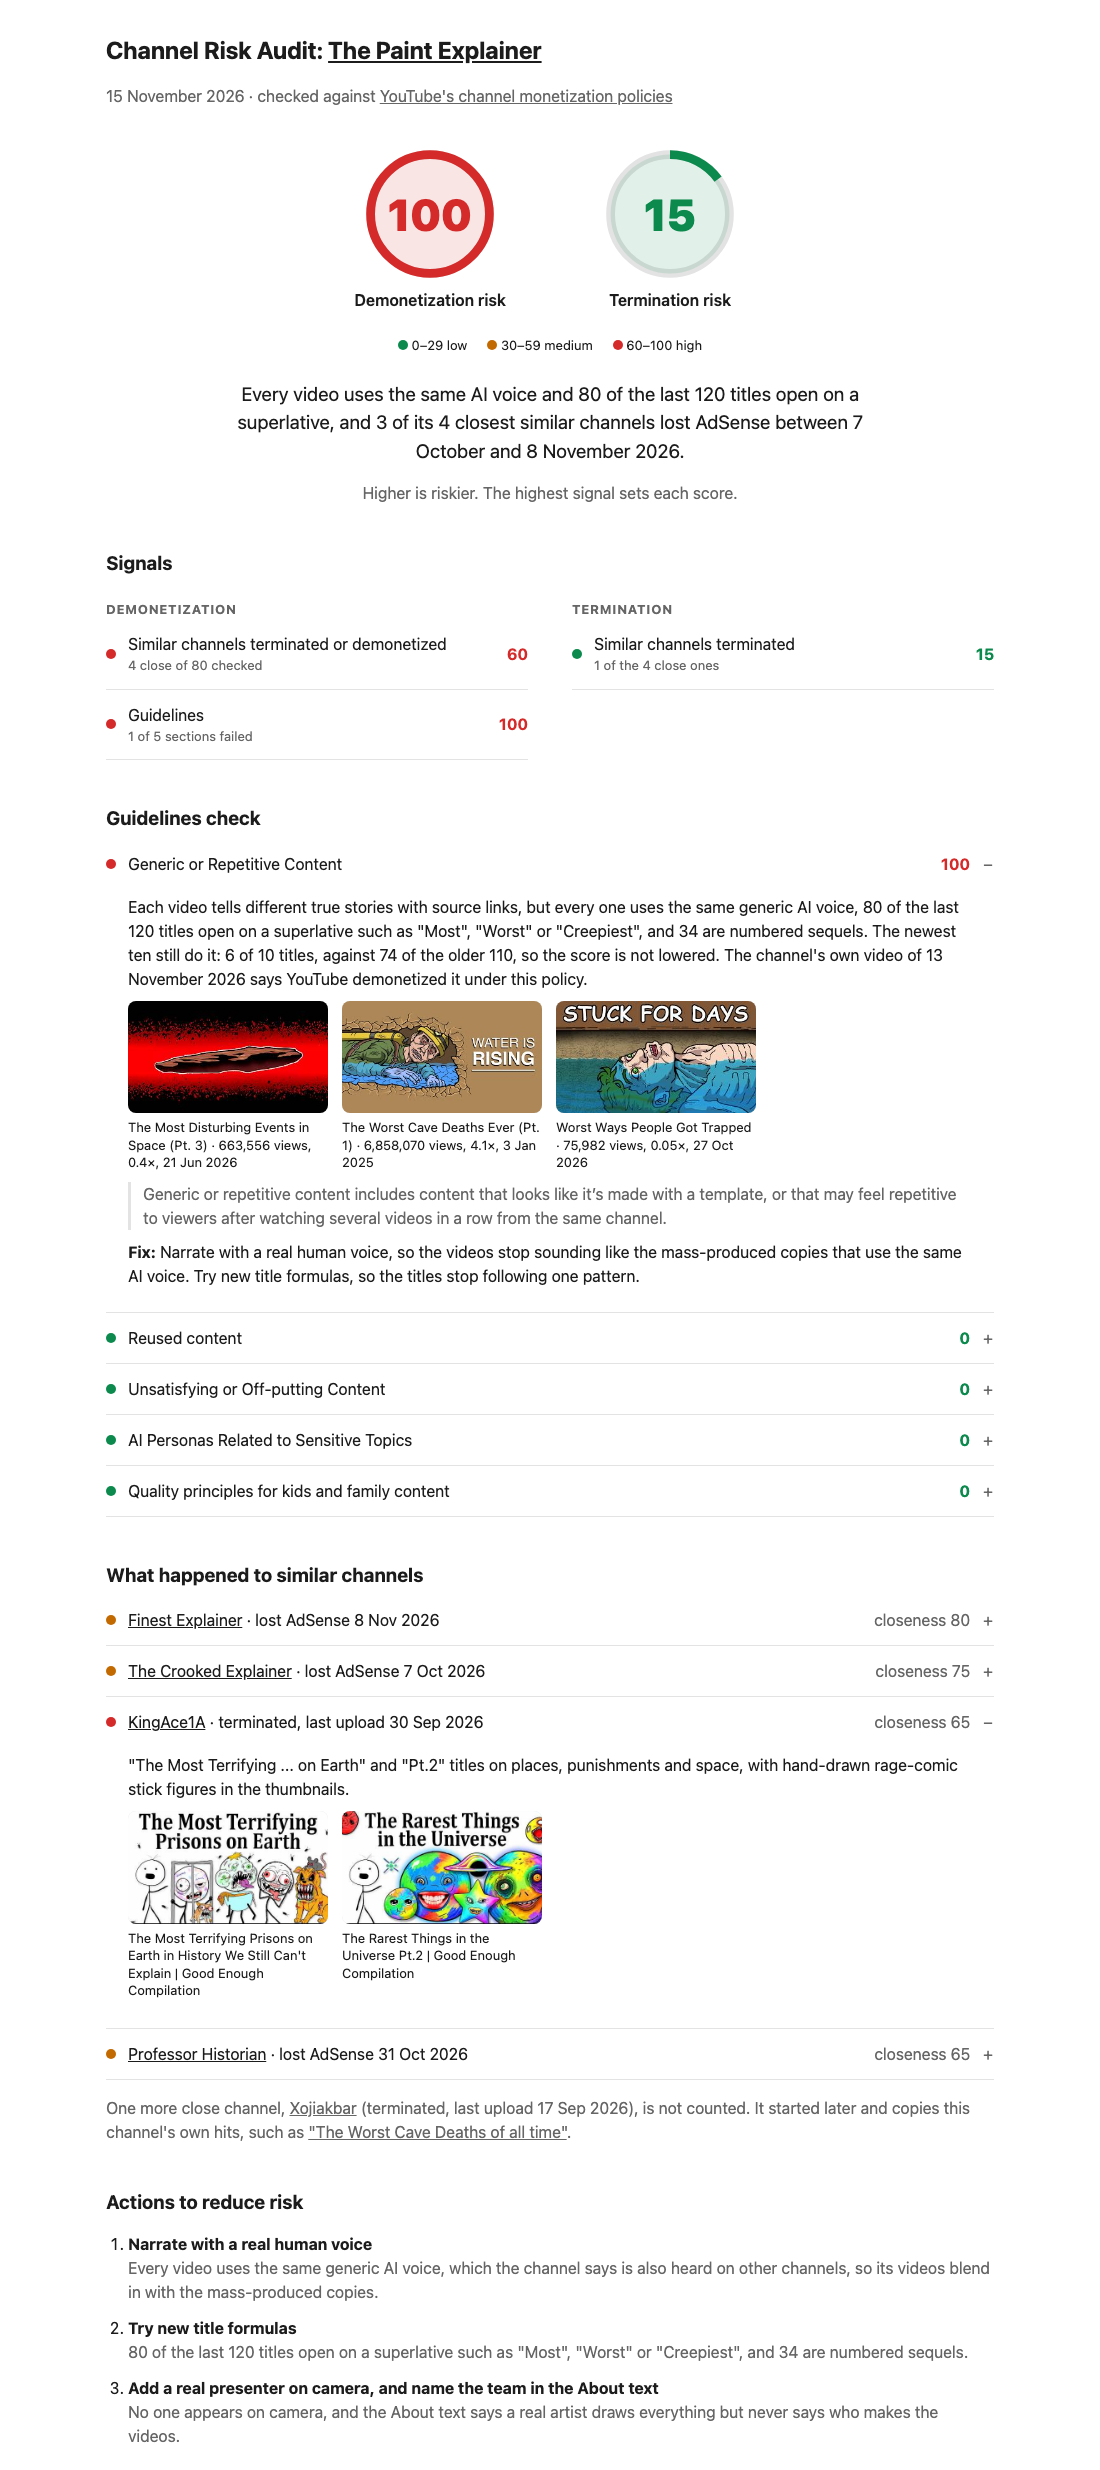
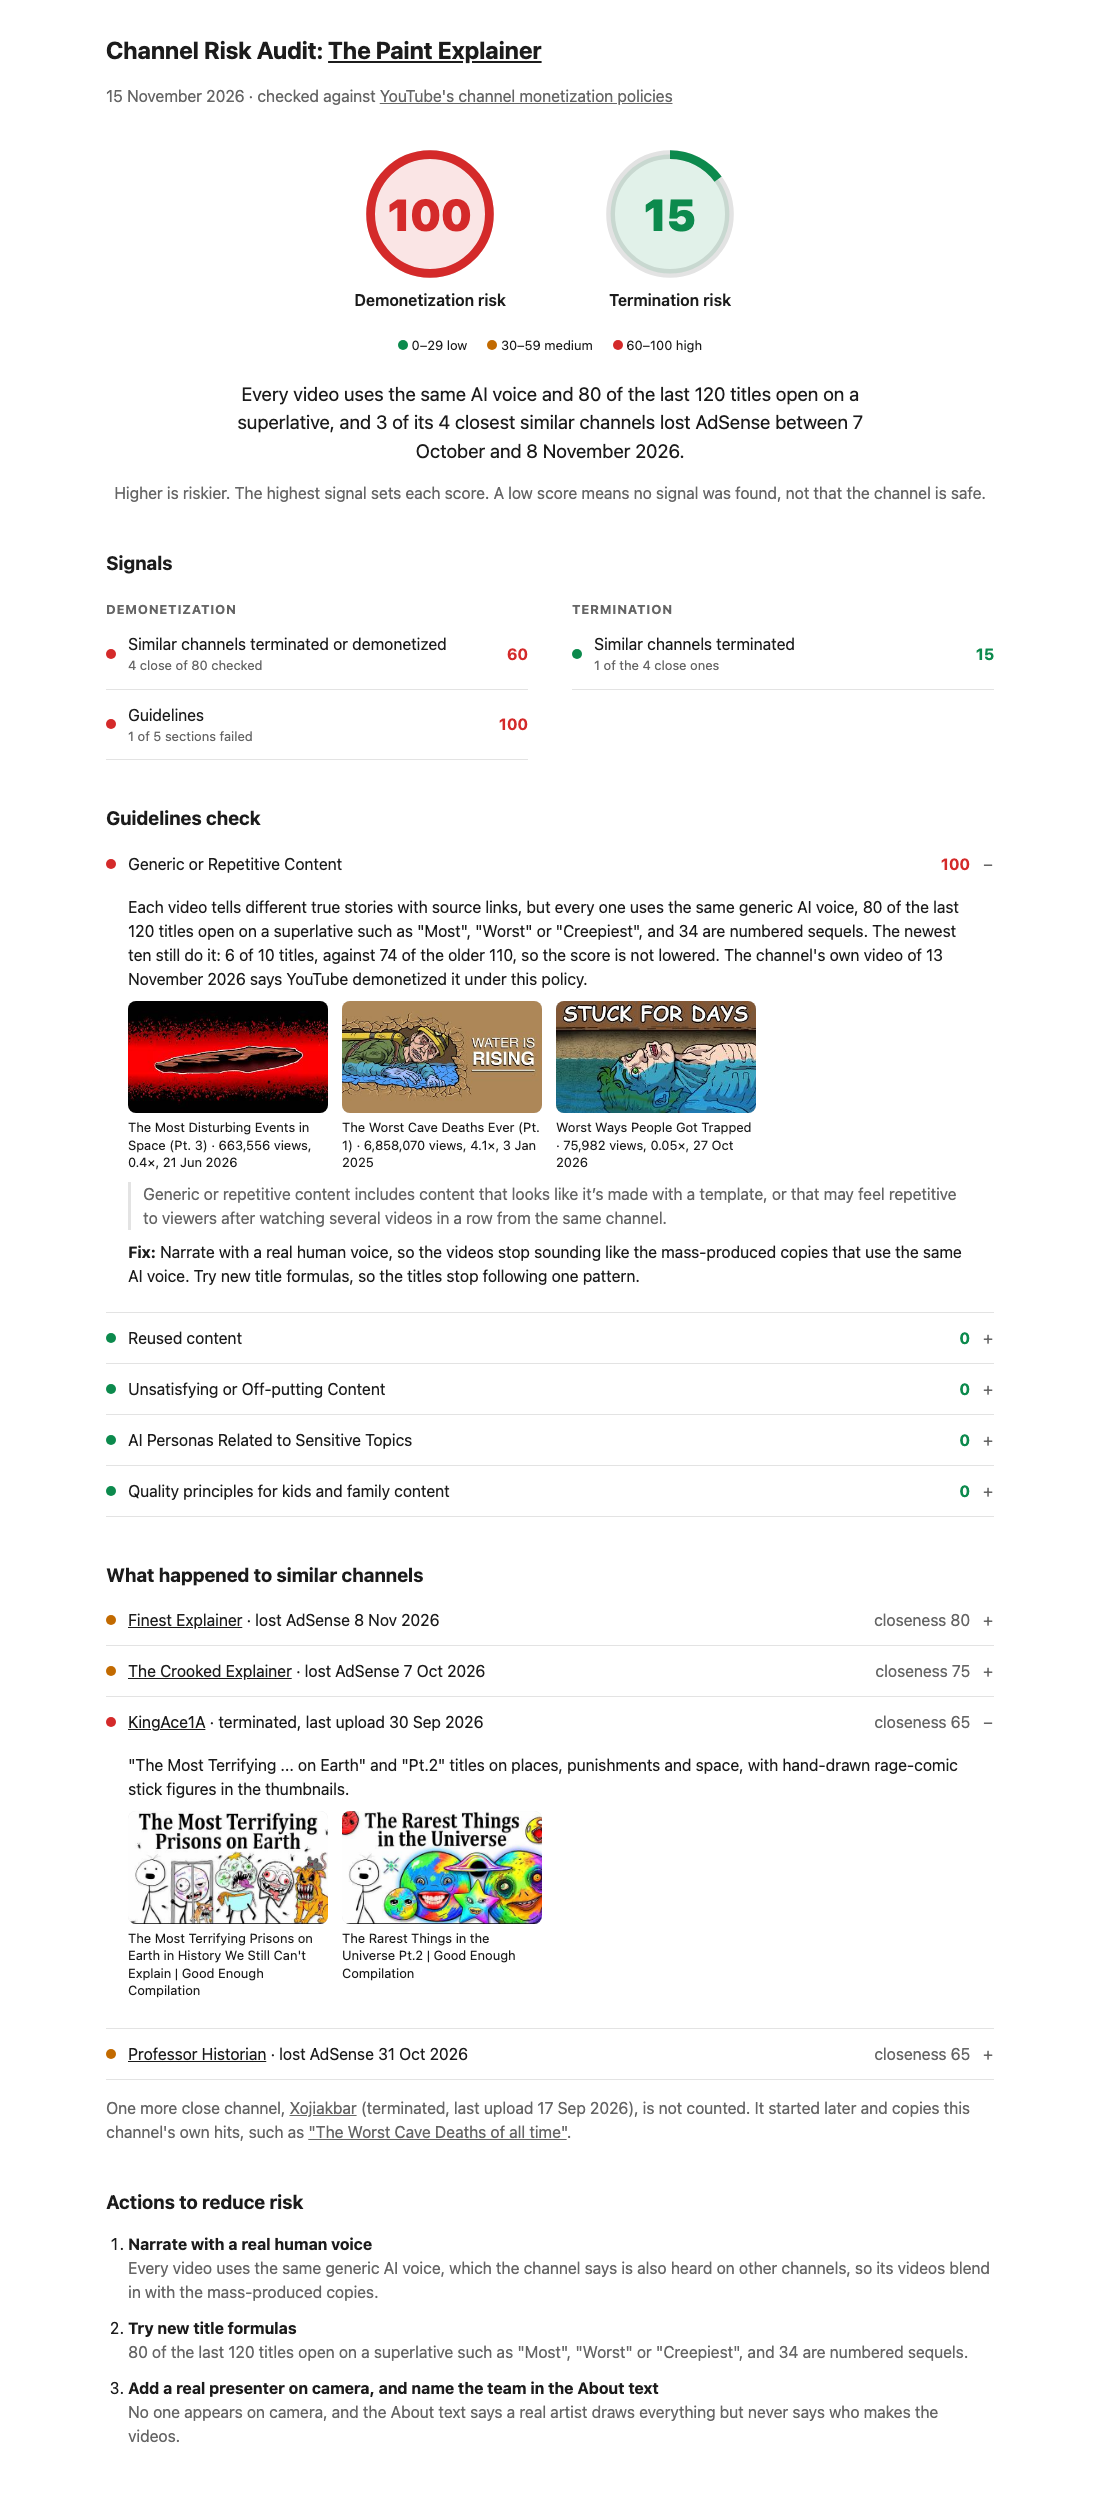
feat(audit-channel-risk): judge scripts by a swap test and titles by their shape
Scripts are checked by whether two videos could swap names and places and still work, and a title formula is counted by its shape. Several channels are also compared on presenter, description blocks and upload times. The page says a low score does not mean the channel is safe.

diff --git a/examples/audit-channel-risk/2026-11-thepaintexplainer.html b/examples/audit-channel-risk/2026-11-thepaintexplainer.html
@@ -60,7 +60,7 @@ td,th{text-align:left;padding:10px 12px 10px 0;border-bottom:1px solid var(--lin
 </div>
 <div class="legend"><span class="low"><i></i> 0–29 low</span><span class="med"><i></i> 30–59 medium</span><span class="high"><i></i> 60–100 high</span></div>
 <p class="big center">Every video uses the same AI voice and 80 of the last 120 titles open on a superlative, and 3 of its 4 closest similar channels lost AdSense between 7 October and 8 November 2026.</p>
-<p class="mut center">Higher is riskier. The highest signal sets each score.</p>
+<p class="mut center">Higher is riskier. The highest signal sets each score. A low score means no signal was found, not that the channel is safe.</p>
 
 <h2>Signals</h2>
 <div class="cols">

diff --git a/skills/audit-channel-risk/SKILL.md b/skills/audit-channel-risk/SKILL.md
@@ -1,6 +1,6 @@
 ---
 name: audit-channel-risk
-description: Use when the user wants to know whether a YouTube channel is at risk of being demonetized or terminated, with a score for each, the red flags and what to fix first. Requires the TubeLab MCP.
+description: Use when the user wants to know whether a YouTube channel is at risk of being demonetized or terminated, with a score for each, the proof and what to fix first. Requires the TubeLab MCP.
 license: MIT
 metadata:
   author: tubelab
@@ -18,16 +18,16 @@ YouTube's [channel monetization policies](https://support.google.com/youtube/ans
 
 1. Read the policy page and list its sections that set a rule for a channel's videos, skipping those that only point to another page. If it will not open, ask for a paste.
 2. Read each channel for free: its top and newest videos and About text.
-3. Check the channel against each section, across titles, descriptions, thumbnails and three to five transcripts. View the thumbnails of the videos you cite.
+3. Check the channel against each section, across titles, descriptions, thumbnails and three to five transcripts. Count a title formula by its shape, not its words. For scripts, ask whether two videos could swap names and places and still work; a shared intro or outro is not a template. View the thumbnails of the videos you cite.
 4. Note what already shows real people behind the channel: a real presenter on camera, and an About text naming who makes the videos.
-5. Run both searches below per channel, seeded with it, without the quality filter. Lost AdSense means `monetization.adsense` is false with a `monetizationChangedAt` date, whatever the AdSense detection says. False alone only means not monetized.
+5. Run both searches below per channel, seeded with it, without the quality filter. Lost AdSense means `monetization.adsense` is false with a `monetizationChangedAt` date. False alone only means not monetized.
 6. Rate every hit but the channel itself from 0 to 100: titles first, then thumbnails for title matches, then scripts if still unsure. A close one, 60 or more, shares the title formula and subject, and the thumbnail style. A terminated channel's thumbnails load from `https://cdn.tubelab.net/vi/<id>.jpeg`.
-7. Score two risks from 0 to 100, where higher is riskier. One strong signal is enough, so take the highest and never add them up. Under 30 is low 🟢, 30 to 59 is medium 🟡, and 60 or more is high 🔴.
+7. Score two risks from 0 to 100, where higher is riskier. Take the highest signal, never a sum. Under 30 is low 🟢, 30 to 59 is medium 🟡, and 60 or more is high 🔴.
    - Termination: 15 points per close similar channel terminated, up to 100.
    - Demonetization: the higher of two signals.
      - Similar channels: 15 points per close one terminated or demonetized, up to 100.
      - Guidelines: its worst section. A section scores 0 when at most two videos run into it, 60 when more do, and 100 when over half do. Drop it one level, 100 to 60 or 60 to 30, when the newest ten videos run into it at under half the older ones' rate.
-8. Compare several channels. One shared template is what spam systems look for.
+8. With several channels, compare them. A shared template, presenter or description block, or uploads minutes apart, link channels as one network.
 
 Terminated, then lost AdSense:
 
@@ -93,7 +93,7 @@ td,th{text-align:left;padding:10px 12px 10px 0;border-bottom:1px solid var(--lin
 </head>
 <body>
 <main>
-{With several channels, one page: first a table of channel, both scores and biggest risk, then one line on what the channels repeat between them, then everything below once per channel, riskiest first.}
+{With several channels, one page: first a table of channel, both scores and biggest risk, then one line on what links the channels (a shared template, presenter, description block or upload times), then everything below once per channel, riskiest first.}
 
 <h1>Channel Risk Audit: <a href="{url}">{channel}</a></h1>
 <p class="mut">{run date} · checked against <a href="{policy page url}">YouTube's channel monetization policies</a></p>
@@ -104,7 +104,7 @@ td,th{text-align:left;padding:10px 12px 10px 0;border-bottom:1px solid var(--lin
 </div>
 <div class="legend"><span class="low"><i></i> 0–29 low</span><span class="med"><i></i> 30–59 medium</span><span class="high"><i></i> 60–100 high</span></div>
 <p class="big center">{biggest risk, one sentence with numbers}</p>
-<p class="mut center">Higher is riskier. The highest signal sets each score.</p>
+<p class="mut center">Higher is riskier. The highest signal sets each score. A low score means no signal was found, not that the channel is safe.</p>
 
 <h2>Signals</h2>
 <div class="cols">
@@ -127,7 +127,7 @@ td,th{text-align:left;padding:10px 12px 10px 0;border-bottom:1px solid var(--lin
     <p>{what was found, one or two sentences, then how many of the newest ten videos still do it against the older ones, and whether that lowered the score}</p>
     {The next three only for a failed section.}
     <div class="vids">
-      <a href="{video url}"><img src="{thumbnail}" alt="">{title} · {views, ratio, date}</a> {up to three videos}
+      <a href="{video url}"><img src="{thumbnail: the 320px mqdefault.jpg, or the TubeLab one for a terminated channel}" alt="">{title} · {views, ratio, date}</a> {up to three videos}
     </div>
     <blockquote>{the policy line it runs into, quoted from the page}</blockquote>
     <p><strong>Fix:</strong> {one sentence per thing to change}</p>
@@ -161,16 +161,14 @@ td,th{text-align:left;padding:10px 12px 10px 0;border-bottom:1px solid var(--lin
 - Chat: reply with only the two scores, the biggest risk and the file.
 - Language: plain words and short sentences. Say "similar channels" and "terminated".
 - Proof: every claim has its videos or channels under it.
-- Links: link every video and channel you cite, built from IDs and handles in the data. Never guess one.
-- Thumbnails: use the 320px `mqdefault.jpg` image, or the TubeLab one for a terminated channel.
+- Links: link every video and channel you cite, from IDs in the data.
 
 ## Common Pitfalls
 
 - Do not say why a similar channel was terminated. The data does not show why.
-- Do not rate closeness by topic alone. One niche holds many formats.
-- Do not count a similar channel that gained AdSense, unless it is now terminated.
+- Do not rate closeness by topic alone.
 - Do not count a later clone of the channel's own videos. Other channels in the same format count.
 - Do not flag AI use or upload pace alone.
 - Do not score the channel's own AdSense status. Off can mean it was never monetized.
-- A score is not a probability, and a low one is valid.
+- A score is not a probability, and a low one does not mean safe.
 - Never suggest hiding from detection. Every action changes the videos or shows who makes them.
